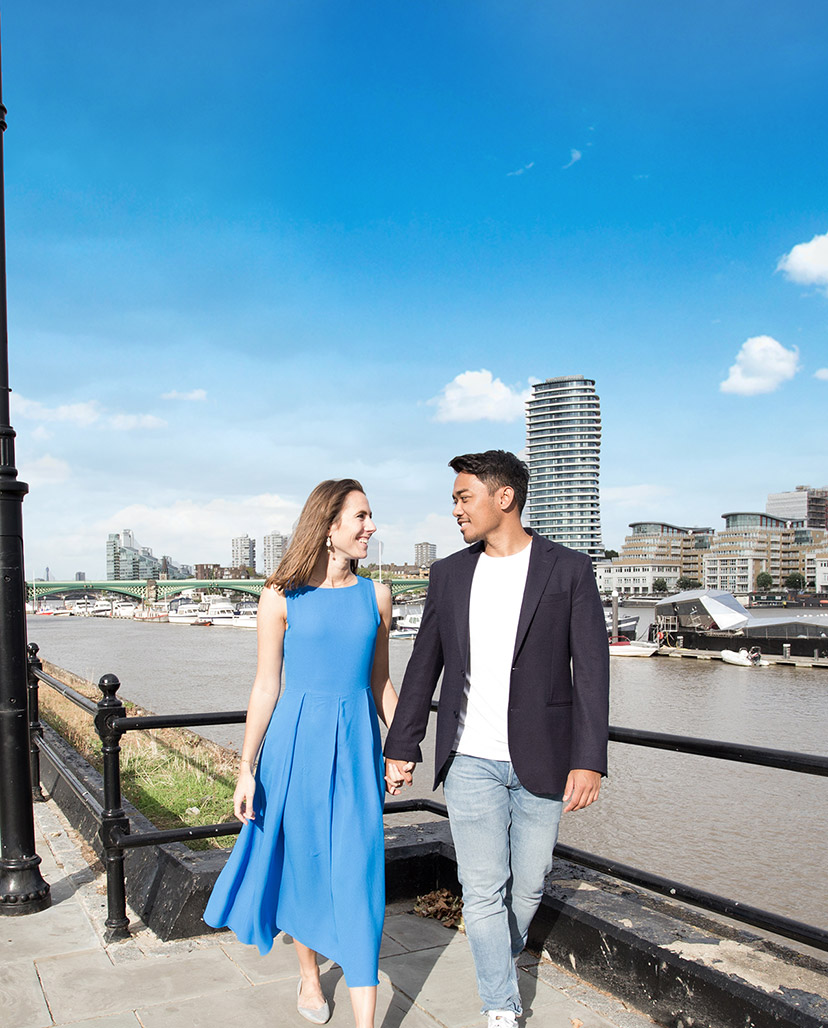
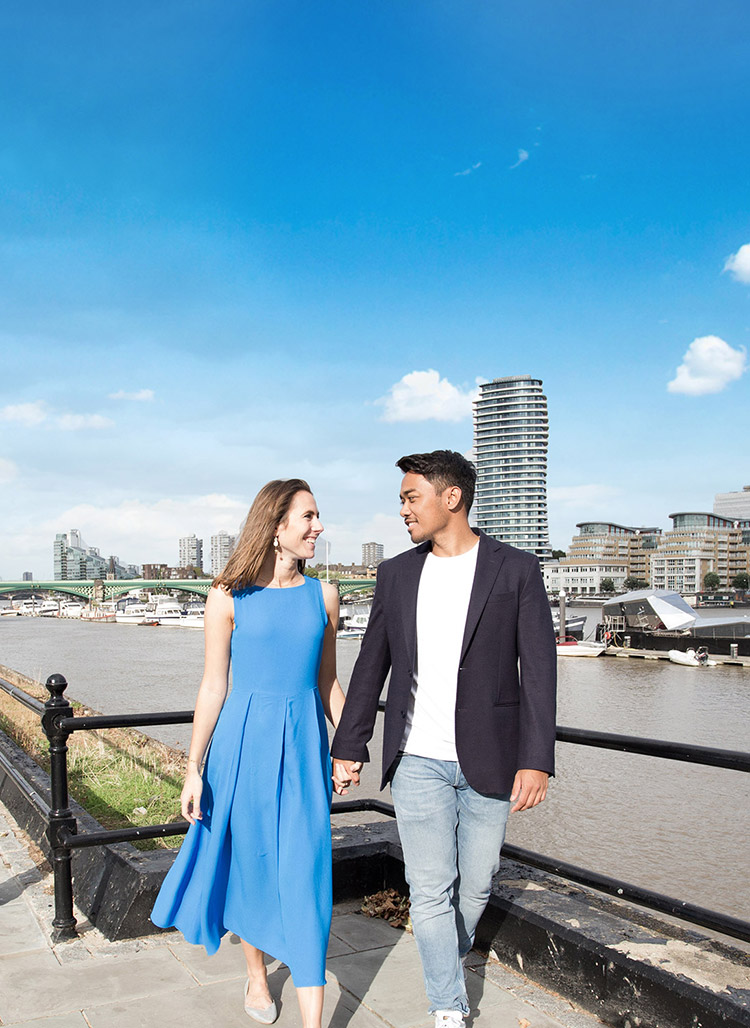
Cookie Policy page

diff --git a/public/sw.js b/public/sw.js
@@ -27,7 +27,7 @@
 
 
 /* eslint-disable quotes, comma-spacing */
-var PrecacheConfig = [["404.html","df02086bc0d7587056441f6426a8426d"],["add.html","75381139e713d374ab7544cf202f06b0"],["cookie-policy.html","fdada084e5c7f96b2f18b55fc9309dda"],["css/404.9cb03202e218c916.css","9cb03202e218c916ea12fbf19a918067"],["css/hero.29d62ebd4d46d349.css","29d62ebd4d46d349dd593030e01024a9"],["css/nav.299060cc9b6d2b20.css","299060cc9b6d2b20d86823c39356fed4"],["css/rsvp.cbc103d4e9f81cdf.css","cbc103d4e9f81cdf37a3e3c2b9fa5f09"],["css/style.26a65c26b4f06d89.css","26a65c26b4f06d896eeda284d83fbf6e"],["img/abhilash.b3ae1b1ed7c794a6.jpg","b3ae1b1ed7c794a628bdee76d6e1f18c"],["img/alejandro.1a331fdb05f8fe80.jpg","1a331fdb05f8fe80d2ffe8d687ed44ca"],["img/andreas.38fe1443c34c2180.jpg","38fe1443c34c218074cb1173133cd487"],["img/anjani.546bc3a8bc5767a5.jpg","546bc3a8bc5767a5b33f7e552d100d7c"],["img/annie.497c57bae70fe5c0.jpg","497c57bae70fe5c005b8c5cecb6866a7"],["img/jeny.f08efd986894d466.jpg","f08efd986894d466796e4f320389847e"],["img/joana.9a3f055c6286515d.jpg","9a3f055c6286515d79795e61197e5018"],["img/jon.99705ee43cf829fb.jpg","99705ee43cf829fb2bcd00ae38916338"],["img/kamala.54b779a5bb9bae14.jpg","54b779a5bb9bae140b33a56e91105378"],["img/marc.b3951a3a906facbc.jpg","b3951a3a906facbc1550288e9f7e7b16"],["img/mike.dfefc5645c493429.jpg","dfefc5645c4934294860e76774fa31e8"],["img/nira-marc_hero-l.b8cf8fc0defa8494.jpg","b8cf8fc0defa8494ffb31ccce61b8476"],["img/nira-marc_hero-m.7cb49f248433fa5b.jpg","7cb49f248433fa5ba47c1d36acc40d6d"],["img/nira-marc_hero-s.7414461ba50e50d2.jpg","7414461ba50e50d2a41e678c1a298bf9"],["img/nira.40147bc4cfffd4fb.jpg","40147bc4cfffd4fbe7479db24efb1ddb"],["img/ph-hero-l.8b1fec288932a484.gif","8b1fec288932a48470f4a3e2158fcf62"],["img/ph-venue-l.64ee3b74a35ae2f2.gif","64ee3b74a35ae2f23123a73c93ca9e5c"],["img/sneha.2bb781a48fa4e7e0.jpg","2bb781a48fa4e7e0dee3aaf154556c61"],["img/venue-1-l.0a3331f8aba89d92.jpg","0a3331f8aba89d92b40c22de5cd46b99"],["img/venue-1-m.66ae9ec05f561b82.jpg","66ae9ec05f561b8233951196cf741122"],["img/venue-1-s.61c15f0672e6fe0c.jpg","61c15f0672e6fe0c7a039f01489c791d"],["img/venue-2-l.94de073f6b7cb6f4.jpg","94de073f6b7cb6f4d62bd0dc70a72f06"],["img/venue-2-m.31f3cbe3fdbaca2c.jpg","31f3cbe3fdbaca2cf2c39d69de5bd3f2"],["img/venue-2-s.f0b93ad8aa336a87.jpg","f0b93ad8aa336a87b94f14f36e15d3de"],["img/venue-3-l.aa9d83ba541bcca8.jpg","aa9d83ba541bcca86e8dc96b035175d3"],["img/venue-3-m.f1b7154d06ba2655.jpg","f1b7154d06ba265533afa66e8b7d94b7"],["img/venue-3-s.b052dc799eda3a39.jpg","b052dc799eda3a39775796c693e3e85f"],["img/venue-4-l.154f08799e6771c4.jpg","154f08799e6771c46d8c8ca7f74ac77e"],["img/venue-4-m.8b125f325a440910.jpg","8b125f325a440910c9d94fae0c39e623"],["img/venue-4-s.a8b82e9452590a90.jpg","a8b82e9452590a90520a096f3b79dbb0"],["img/vicky.1eb50a990ef37c5e.jpg","1eb50a990ef37c5e986c3b47415abf50"],["index.html","a5bd265d73f940a03a676bc4e817473c"],["js/rsvp.8b07c05ce144c95c.js","8b07c05ce144c95c311f598b6507cfbd"],["js/script.28fa285a8fca0587.js","28fa285a8fca0587c98cca0a467de06c"],["privacy-policy.html","bf4922d277db66c5827dc091f045027a"]];
+var PrecacheConfig = [["404.html","df02086bc0d7587056441f6426a8426d"],["add.html","75381139e713d374ab7544cf202f06b0"],["cookie-policy.html","fd8e911390cb43832e367bca3007652e"],["css/404.9cb03202e218c916.css","9cb03202e218c916ea12fbf19a918067"],["css/hero.29d62ebd4d46d349.css","29d62ebd4d46d349dd593030e01024a9"],["css/nav.299060cc9b6d2b20.css","299060cc9b6d2b20d86823c39356fed4"],["css/rsvp.cbc103d4e9f81cdf.css","cbc103d4e9f81cdf37a3e3c2b9fa5f09"],["css/style.5ddc1ba237463d27.css","5ddc1ba237463d27c43cb21b040538cd"],["img/abhilash.b3ae1b1ed7c794a6.jpg","b3ae1b1ed7c794a628bdee76d6e1f18c"],["img/alejandro.1a331fdb05f8fe80.jpg","1a331fdb05f8fe80d2ffe8d687ed44ca"],["img/andreas.38fe1443c34c2180.jpg","38fe1443c34c218074cb1173133cd487"],["img/anjani.546bc3a8bc5767a5.jpg","546bc3a8bc5767a5b33f7e552d100d7c"],["img/annie.497c57bae70fe5c0.jpg","497c57bae70fe5c005b8c5cecb6866a7"],["img/jeny.f08efd986894d466.jpg","f08efd986894d466796e4f320389847e"],["img/joana.9a3f055c6286515d.jpg","9a3f055c6286515d79795e61197e5018"],["img/jon.99705ee43cf829fb.jpg","99705ee43cf829fb2bcd00ae38916338"],["img/kamala.54b779a5bb9bae14.jpg","54b779a5bb9bae140b33a56e91105378"],["img/marc.b3951a3a906facbc.jpg","b3951a3a906facbc1550288e9f7e7b16"],["img/mike.dfefc5645c493429.jpg","dfefc5645c4934294860e76774fa31e8"],["img/nira-marc_hero-l.b8cf8fc0defa8494.jpg","b8cf8fc0defa8494ffb31ccce61b8476"],["img/nira-marc_hero-m.7cb49f248433fa5b.jpg","7cb49f248433fa5ba47c1d36acc40d6d"],["img/nira-marc_hero-s.78ff106a180ae4f9.jpg","78ff106a180ae4f9047920d0a8fc5358"],["img/nira.40147bc4cfffd4fb.jpg","40147bc4cfffd4fbe7479db24efb1ddb"],["img/ph-hero-l.8b1fec288932a484.gif","8b1fec288932a48470f4a3e2158fcf62"],["img/ph-venue-l.64ee3b74a35ae2f2.gif","64ee3b74a35ae2f23123a73c93ca9e5c"],["img/sneha.2bb781a48fa4e7e0.jpg","2bb781a48fa4e7e0dee3aaf154556c61"],["img/venue-1-l.0a3331f8aba89d92.jpg","0a3331f8aba89d92b40c22de5cd46b99"],["img/venue-1-m.66ae9ec05f561b82.jpg","66ae9ec05f561b8233951196cf741122"],["img/venue-1-s.61c15f0672e6fe0c.jpg","61c15f0672e6fe0c7a039f01489c791d"],["img/venue-2-l.94de073f6b7cb6f4.jpg","94de073f6b7cb6f4d62bd0dc70a72f06"],["img/venue-2-m.31f3cbe3fdbaca2c.jpg","31f3cbe3fdbaca2cf2c39d69de5bd3f2"],["img/venue-2-s.f0b93ad8aa336a87.jpg","f0b93ad8aa336a87b94f14f36e15d3de"],["img/venue-3-l.aa9d83ba541bcca8.jpg","aa9d83ba541bcca86e8dc96b035175d3"],["img/venue-3-m.f1b7154d06ba2655.jpg","f1b7154d06ba265533afa66e8b7d94b7"],["img/venue-3-s.b052dc799eda3a39.jpg","b052dc799eda3a39775796c693e3e85f"],["img/venue-4-l.154f08799e6771c4.jpg","154f08799e6771c46d8c8ca7f74ac77e"],["img/venue-4-m.8b125f325a440910.jpg","8b125f325a440910c9d94fae0c39e623"],["img/venue-4-s.a8b82e9452590a90.jpg","a8b82e9452590a90520a096f3b79dbb0"],["img/vicky.1eb50a990ef37c5e.jpg","1eb50a990ef37c5e986c3b47415abf50"],["index.html","20b5277420320c623cf80185aa7d1717"],["js/rsvp.8b07c05ce144c95c.js","8b07c05ce144c95c311f598b6507cfbd"],["js/script.28fa285a8fca0587.js","28fa285a8fca0587c98cca0a467de06c"],["privacy-policy.html","215398cffaf55f7f964bf908d86bc2d5"]];
 /* eslint-enable quotes, comma-spacing */
 var CacheNamePrefix = 'sw-precache-v1-nmSW-' + (self.registration ? self.registration.scope : '') + '-';
 
@@ -224,4 +224,4 @@ self.addEventListener('fetch', function(event) {
 });
 
 
-/* @preserve Thu, 27 Sep 2018 22:32:20 GMT */
+/* @preserve Fri, 28 Sep 2018 22:09:52 GMT */

diff --git a/public/cookie-policy.html b/public/cookie-policy.html
@@ -182,7 +182,19 @@
             <section class="container cookie-policy">
     <h1 class="title title--secondary-large title--underline title--space">Cookie Policy</h2>
 
-        
+        <h2 class="title title--secondary-small title--left title--space">What are cookies?</h2>
+        <p class="copy">Cookies are small pieces of information which are issued to your computer when you visit our
+            website and which store and sometimes track information about your use of our site.</p>
+
+        <h2 class="title title--secondary-small title--left title--space">Why do we use cookies?</h2>
+        <p class="copy">We use cookies to elevate your user experience and the quality of our site. It help us improve
+            the site by measuring any errors which occur during your browsing experience.</p>
+
+        <h2 class="title title--secondary-small title--left title--space">Manage your cookie preferences</h2>
+        <p class="copy">Your browser is where your cookie information is stored. Each browser has a different method
+            for you to delete cookies or edit your privacy settings. The following <a href="http://www.allaboutcookies.org/"
+                target="_blank" rel="noopener" class="btn btn--txt trans--all">resource</a> offers you simple guides on
+            how to remove cookies from each browser.</p>
 </section>
         </main>
 

diff --git a/01_dev/template/components/main/cookie-policy_content.html b/01_dev/template/components/main/cookie-policy_content.html
@@ -1,5 +1,17 @@
 <section class="container cookie-policy">
     <h1 class="title title--secondary-large title--underline title--space">Cookie Policy</h2>
 
-        
+        <h2 class="title title--secondary-small title--left title--space">What are cookies?</h2>
+        <p class="copy">Cookies are small pieces of information which are issued to your computer when you visit our
+            website and which store and sometimes track information about your use of our site.</p>
+
+        <h2 class="title title--secondary-small title--left title--space">Why do we use cookies?</h2>
+        <p class="copy">We use cookies to elevate your user experience and the quality of our site. It help us improve
+            the site by measuring any errors which occur during your browsing experience.</p>
+
+        <h2 class="title title--secondary-small title--left title--space">Manage your cookie preferences</h2>
+        <p class="copy">Your browser is where your cookie information is stored. Each browser has a different method
+            for you to delete cookies or edit your privacy settings. The following <a href="http://www.allaboutcookies.org/"
+                target="_blank" rel="noopener" class="btn btn--txt trans--all">resource</a> offers you simple guides on
+            how to remove cookies from each browser.</p>
 </section>

diff --git a/01_dev/sass/bem/_img.scss b/01_dev/sass/bem/_img.scss
@@ -35,7 +35,7 @@
         height: calc(100vw / 1.8666666667); // 1400/750=1.8666666667
 
         @include media(screen,max,666px) {
-            height: calc(100vw / 0.8054474708); // 414/514=0.8054474708
+            height: calc(100vw / 0.7295719844); // 750/1028=0.7295719844
         }
     }
     //-- MODIFIER: Container Venue

diff --git a/01_dev/css/style.css b/01_dev/css/style.css
@@ -487,7 +487,7 @@ li {
 }
 @media screen and (max-width: 666px) {
   .img--container-hero {
-    height: calc(100vw / 0.8054474708);
+    height: calc(100vw / 0.7295719844);
   }
 }
 .img--container-venue {

diff --git a/public/css/style.css b/public/css/style.css
@@ -487,7 +487,7 @@ li {
 }
 @media screen and (max-width: 666px) {
   .img--container-hero {
-    height: calc(100vw / 0.8054474708);
+    height: calc(100vw / 0.7295719844);
   }
 }
 .img--container-venue {
